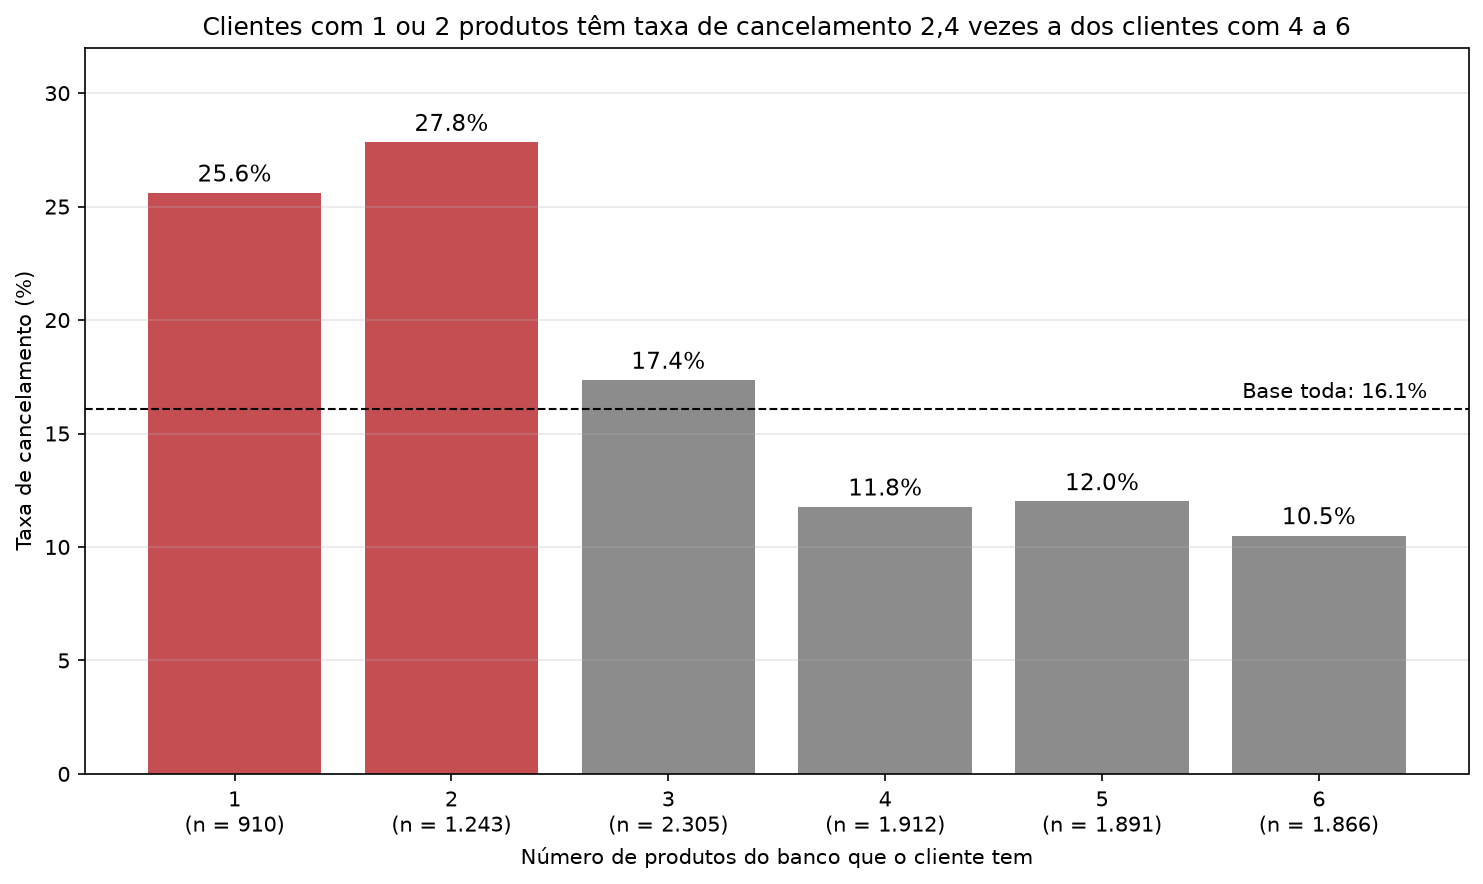
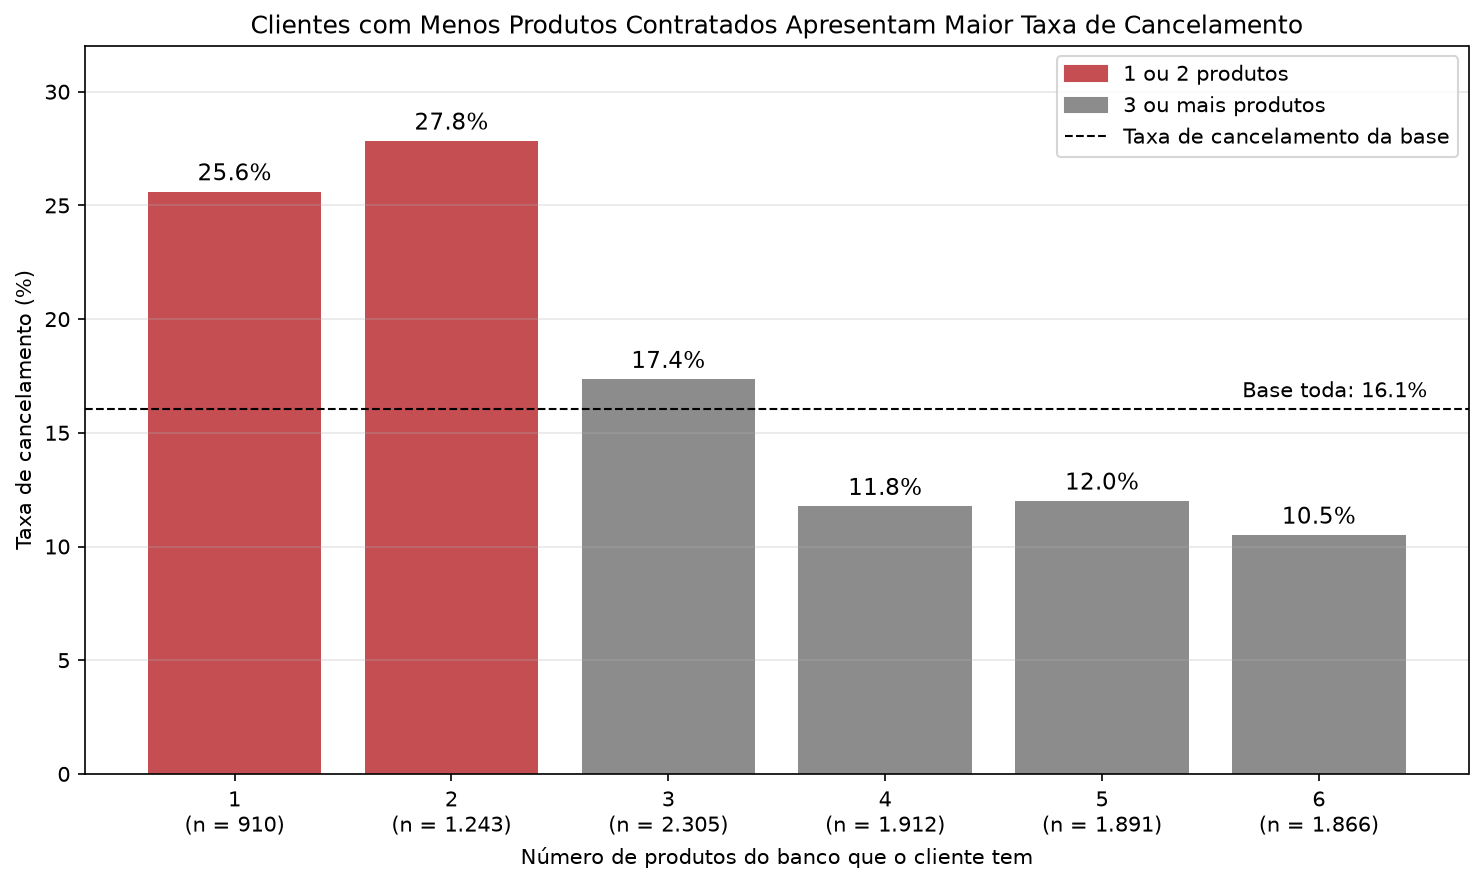
Outliers do BankChurners: interpretacao e decisao escritas pelo grupo; titulo e legenda da explanatoria 2

diff --git a/src/parte_especifica/app_pages/4_outliers.py b/src/parte_especifica/app_pages/4_outliers.py
@@ -25,16 +25,11 @@ NOTA_EXPL2_INSIGHT = 'Clientes que possuem apenas 1 ou 2 produtos apresentam uma
 NOTA_EXPL2_POR_QUE = 'O gráfico de barras foi escolhido porque facilita comparar valores entre categorias diferentes, nesse caso, a quantidade de produtos contratados. Assim, fica fácil perceber quais grupos possuem as maiores e menores taxas de cancelamento. O vermelho foi usado para destacar os clientes com 1 ou 2 produtos, pois são os grupos que apresentam maior taxa de cancelamento e merecem mais atenção. A linha tracejada permite comparar cada grupo com a taxa geral da base.'
 
 
-# Decisao do grupo sobre o tratamento (proposta do notebook eda_outliers.ipynb, para revisao)
-TEXTO_DECISAO = """
-1. **Manter todos os valores.** Os extremos sao plausiveis (clientes de renda alta, grandes gastadores, clientes
-   mais velhos ou mais antigos) e nao ha erro de digitacao nem valor fora da escala.
-2. **Nao remover linhas.** Tirar os outliers de todas as variaveis (com k = 1,5) descartaria 32,8% da base,
-   justamente os perfis mais distintos. Os outliers tambem carregam informacao sobre o cancelamento.
-3. **Limitar nas cercas do IQR so como recurso de analise**, em comparacoes sensiveis a escala (reduz a
-   assimetria sem perder clientes).
-4. **Variaveis de contagem** (contatos, meses inativo, meses de relacionamento): valores validos da escala.
-"""
+# Textos do grupo (Fernando), iguais ao notebook eda_outliers.ipynb
+TEXTO_OUTLIERS_REAIS = 'Os outliers parecem ser clientes reais, e não erros nos dados. Isso porque os valores extremos continuam dentro de limites possíveis, sem números negativos ou fora das escalas esperadas. Por exemplo, existem clientes com limite de crédito de até US$ 34.516, movimentação de até US$ 18.484 e até 139 transações em 12 meses. Pelo critério IQR, foram encontrados outliers em 10 das 14 variáveis numéricas, e 3.326 clientes (32,8% da base) possuem pelo menos um valor extremo. Portanto, ser outlier não significa que o dado esteja errado, mas sim que aquele cliente tem um comportamento diferente da maioria.'
+TEXTO_OUTLIERS_CANCELAMENTO = 'A tabela mostra que existe relação em algumas variáveis, mas não significa que todo outlier tenha maior chance de cancelar. Por exemplo, os clientes considerados outliers em Total_Ct_Chng_Q4_Q1 apresentam taxa de cancelamento de 22,1%, enquanto os demais têm 15,8%. Já em Total_Trans_Amt, acontece o contrário: os outliers cancelam menos, com taxa de 9,8%, contra 16,7% dos demais. Em Credit_Limit, as taxas são iguais, de 16,1%. Isso mostra que os valores extremos podem representar comportamentos diferentes e que alguns deles ajudam a entender o cancelamento.'
+TEXTO_DECISAO = 'O grupo propõe manter os outliers e não remover os clientes, pois os valores são plausíveis e podem trazer informações importantes para a análise. Remover todos os clientes que possuem pelo menos um outlier faria a base cair de 10.127 para 6.801 clientes, ou seja, seriam perdidos 32,8% dos dados. Como alternativa, podemos limitar alguns valores nas cercas do IQR para diminuir a assimetria das variáveis, sem excluir nenhum cliente. Assim, a decisão principal é manter os registros e evitar a perda de informações importantes.'
+TITULO_EXPL2 = 'Clientes com Menos Produtos Contratados Apresentam Maior Taxa de Cancelamento'
 
 MIN_OUTLIERS_PARA_TAXA = 30
 
@@ -186,8 +181,9 @@ with st.container(border=True):
 # ---------------------------------------------------------------- decisao
 with st.container(border=True):
     st.subheader("Decisao sobre o tratamento", anchor=False)
-    st.markdown(TEXTO_DECISAO)
-    st.caption("Proposta do notebook eda_outliers.ipynb, sujeita a revisao do grupo.")
+    st.markdown(f"**Os outliers sao erros ou clientes reais?** {TEXTO_OUTLIERS_REAIS}")
+    st.markdown(f"**Ser outlier tem relacao com cancelar?** {TEXTO_OUTLIERS_CANCELAMENTO}")
+    st.markdown(f"**Tratamento adotado:** {TEXTO_DECISAO}")
 
 
 def dec_br(valor: float, casas: int = 1) -> str:
@@ -259,7 +255,7 @@ def analisar_produtos() -> dict:
     fig = px.bar(
         grafico, x="Rotulo", y="taxa", color="Grupo", text=grafico["taxa"].map(lambda t: f"{t:.1f}%"),
         color_discrete_map={"1 ou 2 produtos": CORES_SITUACAO["Cancelou"], "3 ou mais produtos": "#8C8C8C"},
-        title=f"Clientes com 1 ou 2 produtos tem taxa de cancelamento {dec_br(razao)} vezes a dos clientes com 4 a 6",
+        title=TITULO_EXPL2,
         labels={"Rotulo": "Numero de produtos do banco que o cliente tem", "taxa": "Taxa de cancelamento (%)", "Grupo": ""},
     )
     fig.add_hline(y=taxa_base, line_dash="dash", line_color="black",
